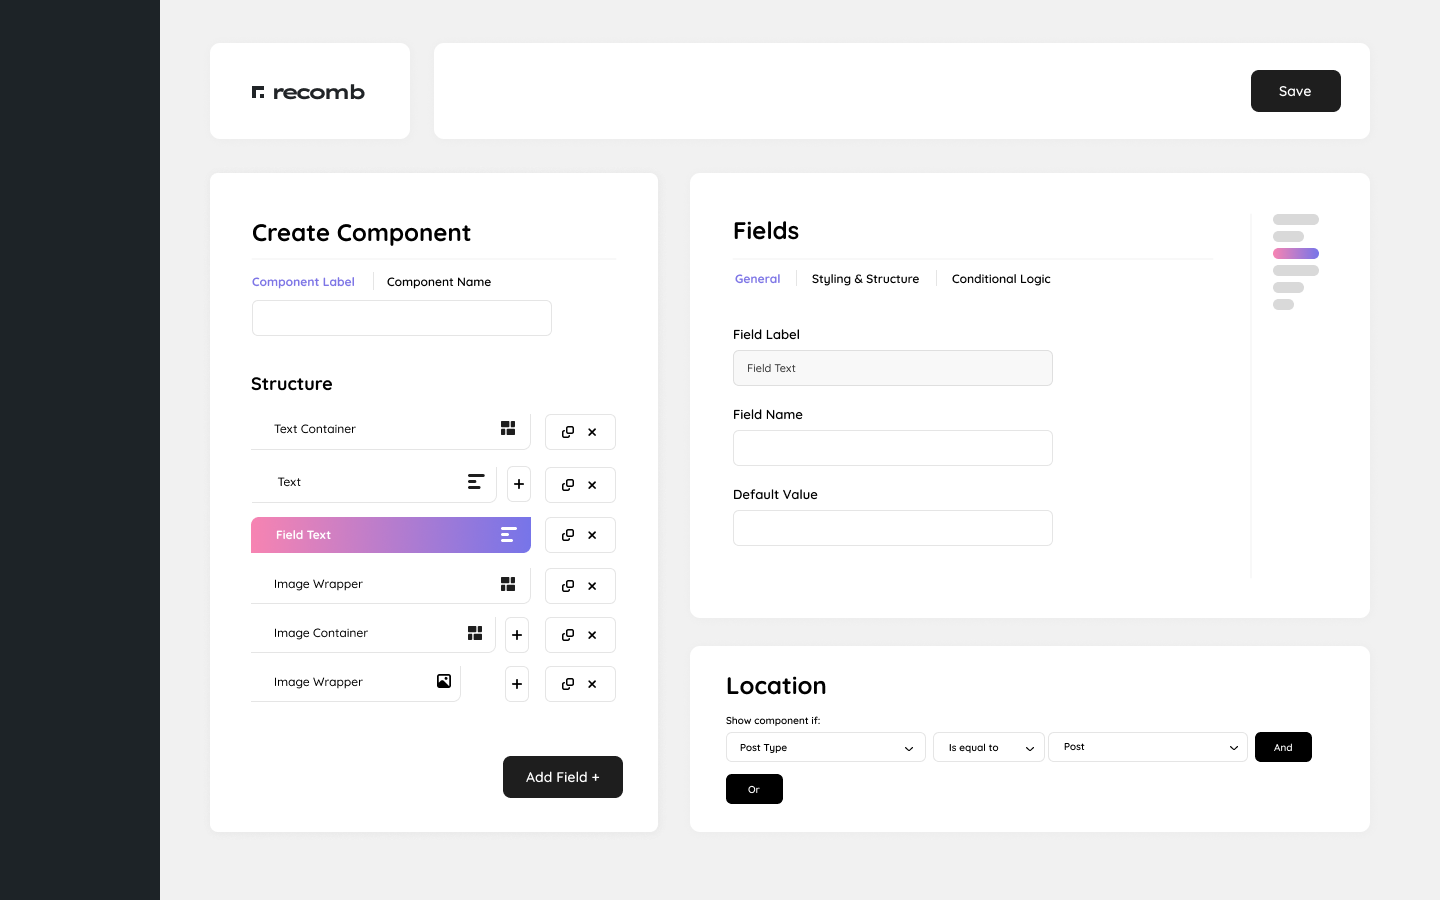
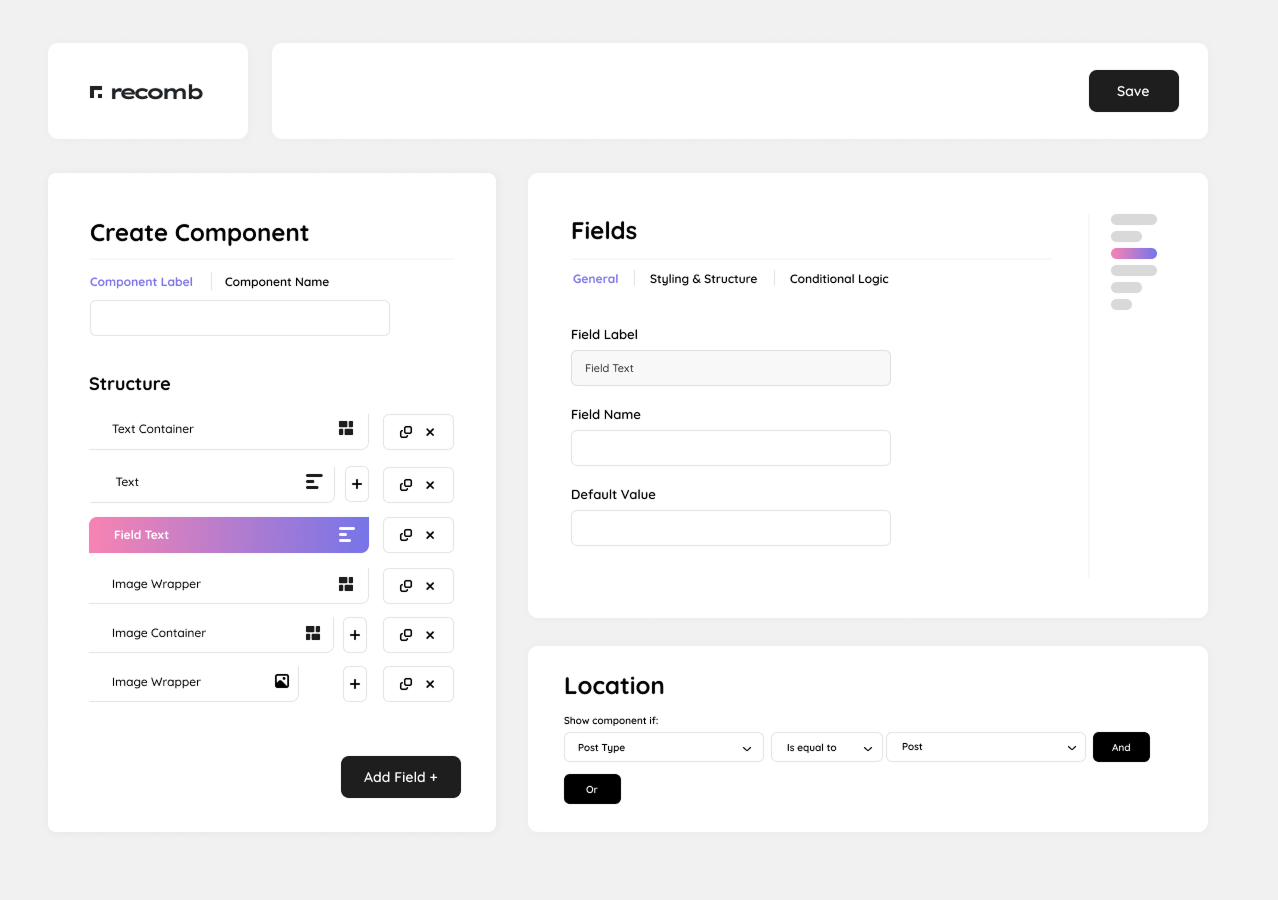
content

diff --git a/src/data/dataProjects.js b/src/data/dataProjects.js
@@ -1,14 +1,14 @@
-// import LogoChristianOuwens from "../assets/static/logo/logo_christian-ouwens.svg?react";
-// import LogoEthereal from "../assets/static/logo/logo_ethereal.svg?react";
+import LogoChristianOuwens from "../assets/static/logo/logo_christian-ouwens.svg?react";
+import LogoEthereal from "../assets/static/logo/logo_ethereal.svg?react";
 // import LogoGastouderRegenboogje from "../assets/static/logo/logo_gastouder-regenboogje.svg?react";
-// import LogoHollandsOntwerp from "../assets/static/logo/logo_hollands-ontwerp.svg?react";
-// import LogoMindVisualizer from "../assets/static/logo/logo_mind-visualizer.svg?react";
-// import LogoMonopole from "../assets/static/logo/logo_monopole.svg?react";
-// import LogoMonopole from "../assets/static/logo/logo_monopole.svg?react";
-// import LogoReComb from "../assets/static/logo/logo_recomb.svg?react";
+import LogoHollandsOntwerp from "../assets/static/logo/logo_hollands-ontwerp.svg?react";
+import LogoHumanAidNow from "../assets/static/logo/logo_human-aid-now.svg?react";
+import LogoMindVisualizer from "../assets/static/logo/logo_mind-visualizer.svg?react";
+import LogoMonopole from "../assets/static/logo/logo_monopole.svg?react";
+import LogoReComb from "../assets/static/logo/logo_recomb.svg?react";
 // import LogoRobinUleman from "../assets/static/logo/logo_robin-uleman.svg?react";
-// import LogoSpekt from "../assets/static/logo/logo_spekt.svg?react";
-// import LogoWhenWhat from "../assets/static/logo/logo_when-what.svg?react";
+import LogoSpekt from "../assets/static/logo/logo_spekt.svg?react";
+import LogoWhenWhat from "../assets/static/logo/logo_when-what.svg?react";
 
 
 export const projects = [
@@ -17,19 +17,19 @@ export const projects = [
         title: "project.ethereal.title",
         description: "project.ethereal.description",
         tag: "tag.website",
-        image_tease: "/images/project3.png",
-        image_long: "",
-        image_logo: {LogoEthereal},
+        image_tease: "/static/images/image_project_tease_ethereal.jpg",
+        image_long: "/static/images/image_project_long_ethereal.png",
+        image_logo: LogoEthereal,
         date: "2021-12-01",
     },
     {
         id: "gastouder_regenboogje",
         title: "project.gastouder_regenboogje.title",
-        description: "project.gastouder_regenbogje.description",
+        description: "project.gastouder_regenboogje.description",
         tag: "tag.website",
-        image_tease: "/images/project3.png",
-        image_long: "",
-        image_logo: {LogoGastouderRegenboogje},
+        image_tease: "/static/images/image_project_tease_gastouder-regenboogje.jpg",
+        image_long: "/static/images/image_project_long_gastouder-regenboogje.png",
+        // image_logo: {LogoGastouderRegenboogje},
         date: "2022-04-01",
     },
     {
@@ -37,9 +37,10 @@ export const projects = [
         title: "project.hollands_ontwerp.title",
         description: "project.hollands_ontwerp.description",
         tag: "tag.website",
-        image_tease: "/images/project3.png",
-        image_long: "",
-        image_logo: {LogoHollandsOntwerp},
+        image_tease: "/static/images/image_project_tease_hollands-ontwerp.png",
+        // image_long: "/static/images/image_project_long_hollands_ontwerp.png",
+        image_logo: LogoHollandsOntwerp,
+        url: "https://www.hollandsontwerp.nl/",
         date: "2023-10-01",
     },
     {
@@ -47,9 +48,10 @@ export const projects = [
         title: "project.robin_uleman.title",
         description: "project.robin_uleman.description",
         tag: "tag.website",
-        image_tease: "/images/project3.png",
-        image_long: "",
-        image_logo: {LogoRobinUleman},
+        image_tease: "/static/images/image_project_tease_robin-uleman.png",
+        // image_long: "/static/images/image_project_long_robin-uleman.png",
+        // image_logo: {LogoRobinUleman},
+        url: "https://www.robinuleman.nl/",
         date: "2023-11-01",
     },
     {
@@ -57,9 +59,10 @@ export const projects = [
         title: "project.human_aid_now.title",
         description: "project.human_aid_now.description",
         tag: "tag.website",
-        image_tease: "/images/project3.png",
-        image_long: "",
-        image_logo: {LogoHumanAidNow},
+        image_tease: "/static/images/image_project_tease_human-aid-now.png",
+        // image_long: "/static/images/image_project_long_human-aid-now.png",
+        image_logo: LogoHumanAidNow,
+        url: "https://www.humanaidnow.org/",
         date: "2024-02-01",
     },
     {
@@ -67,9 +70,10 @@ export const projects = [
         title: "project.spekt.title",
         description: "project.spekt.description",
         tag: "tag.website",
-        image_tease: "/images/project3.png",
-        image_long: "",
-        image_logo: {LogoSpekt},
+        image_tease: "/static/images/image_project_tease_spekt.png",
+        image_long: "/static/images/image_project_long_spekt.png",
+        image_logo: LogoSpekt,
+        url: "https://www.spekt.nl/",
         date: "2024-05-01",
     },
     {
@@ -77,9 +81,9 @@ export const projects = [
         title: "project.when_and_what.title",
         description: "project.when_and_what.description",
         tag: "tag.mobile_app",
-        image_tease: "/images/project3.png",
-        image_long: "",
-        image_logo: {LogoWhenWhat},
+        image_tease: "/static/images/image_project_tease_when-what.png",
+        image_long: "/static/images/image_project_long_when-what.png",
+        image_logo: LogoWhenWhat,
         date: "2024-07-01",
     },
     {
@@ -87,9 +91,10 @@ export const projects = [
         title: "project.christian_ouwens.title",
         description: "project.christian_ouwens.description",
         tag: "tag.website",
-        image_tease: "/images/project3.png",
-        image_long: "",
-        image_logo: {LogoChristianOuwens},
+        image_tease: "/static/images/image_project_tease_christian-ouwens.png",
+        image_long: "/static/images/image_project_long_christian-ouwens.png",
+        image_logo: LogoChristianOuwens,
+        url: "https://christianouwens.nl/",
         date: "2024-10-01",
     },
     {
@@ -98,8 +103,8 @@ export const projects = [
         description: "project.mind_visualizer.description",
         tag: "tag.minor",
         image_tease: "/static/images/image_project_tease_mind-visualizer.png",
-        image_long: "",
-        image_logo: {LogoMindVisualizer},
+        image_long: "/static/images/image_project_long_mind-visualizer.png",
+        image_logo: LogoMindVisualizer,
         date: "2025-02-01",
     },
     {
@@ -108,8 +113,8 @@ export const projects = [
         description: "project.recomb.description",
         tag: "tag.plugin",
         image_tease: "/static/images/image_project_tease_recomb.png",
-        image_long: "",
-        image_logo: {LogoReComb},
+        image_long: "/static/images/image_project_long_recomb.png",
+        image_logo: LogoReComb,
         date: "2025-07-01",
     },
     {
@@ -120,6 +125,7 @@ export const projects = [
         image_tease: "/static/images/image_project_tease_monopole.png",
         image_long: "/static/images/image_project_long_monopole.png",
         image_logo: LogoMonopole,
+        url: "https://monopoleschiedam.nl/",
         date: "2025-08-01",
     },
 ];

diff --git a/src/views/Project.jsx b/src/views/Project.jsx
@@ -4,6 +4,8 @@ import { projects } from "../data/dataProjects";
 import { useTranslation } from "react-i18next";
 // Components
 import Layout from "../components/layout/Layout";
+// Images
+import IconArrowRight from "../assets/static/icon/icon_arrow_right.svg?react";
 
 
 export default function ProjectDetail() {
@@ -18,36 +20,48 @@ export default function ProjectDetail() {
 
     return (
         <Layout>
-            <section className="mt-36 min-h-screen">
-                <div className="mb-6 px-14">
-                    <Logo className="w-3xs h-auto fill-fill-light" />
+            <section className="mt-40 min-h-screen">
+                <div className="flex max-lg:justify-center mb-8 px-14">
+                    {project.image_logo && (
+                        <Logo className="w-3xs md:w-xs h-auto fill-fill-light" />
+                    )}
                 </div>
 
-                <div className="flex items-flex-start space-between">
-                    <div className="flex flex-col items-flex-start space-between w-1/2">
+                <div className="flex flex-col lg:flex-row space-between">
+                    <div className="flex flex-col items-flex-start space-between lg:w-1/2">
                         <div className="relative w-full h-auto">
-                            <div className="block">
-                                <img src={project.image_tease} alt="" />
-                            </div>
+                            <img src={project.image_tease} alt={t(project.title)} />
                         </div>
 
-                        <div className="space-y-2 p-14">
-                            <h1 className="text-2xl font-medium">{t(project.title)}</h1>
+                        <div className="flex flex-col space-y-2 pt-14 pb-10 px-10 md:pt-14 md:px-14 h-full">
+                            <h1 className="text-2xl md:text-4xl font-medium">{t(project.title)}</h1>
                             <div className="mb-8">
-                                <span className="rounded-full py-1 px-3 text-sm font-medium text-font-dark bg-neutral-000">{t(project.tag)}</span>
+                                <span className="rounded-full py-1 px-3 text-xs md:text-sm font-medium text-font-dark bg-neutral-000">
+                                    {t(project.tag)}
+                                </span>
                             </div>
 
-                            <p>
+                            <p className="text-sm md:text-lg">
                                 {t(project.description)}
                             </p>
+
+                            {project.url && (
+                                <div className="mt-auto">
+                                    <a className="flex items-center justify-self-end border border-border rounded-full py-2 pl-5 pr-3 text-sm md:text-lg font-medium" 
+                                        href={project.url} target="__blank">
+                                        <span>{t("button.go-to-website")}</span>
+                                        <span><IconArrowRight className="w-5 h-auto fill-fill-light" /></span>
+                                    </a>
+                                </div>
+                            )}
                         </div>
                     </div>
 
-                    <div className="flex flex-col items-flex-start space-between w-1/2">
+                    <div className="flex flex-col items-flex-start space-between lg:w-1/2">
                         <div className="relative w-full h-auto">
-                            <div className="block">
-                                <img className="" src={project.image_long} alt="" />
-                            </div>
+                            {project.image_long && 
+                                <img className="" src={project.image_long} alt={t(project.title)} />
+                            }
                         </div>
                     </div>
                 </div>

diff --git a/src/App.jsx b/src/App.jsx
@@ -3,11 +3,14 @@ import { BrowserRouter as Router, Routes, Route } from "react-router-dom";
 import Home from './views/Home'
 import Projects from "./views/Projects";
 import ProjectDetail from './views/Project'
+// Components
+import ScrollToTop from './utility/ScrollToTip';
 
 
 function App() {
     return (
         <Router>
+            <ScrollToTop />
             <Routes>
                 <Route path="/" element={<Home />} />
                 <Route path="/projects" element={<Projects />} />

diff --git a/src/utility/ScrollToTip.js b/src/utility/ScrollToTip.js
@@ -1,0 +1,12 @@
+import { useEffect } from "react";
+import { useLocation } from "react-router-dom";
+
+export default function ScrollToTop() {
+    const { pathname } = useLocation();
+
+    useEffect(() => {
+        window.scrollTo(0, 0);
+    }, [pathname]);
+
+    return null;
+}
